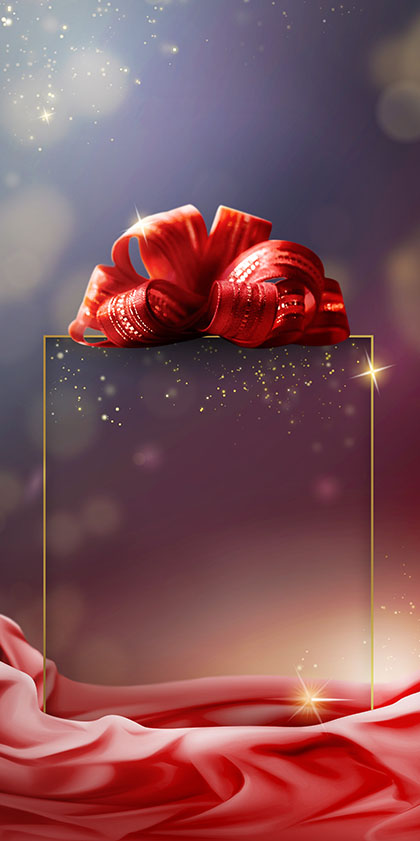
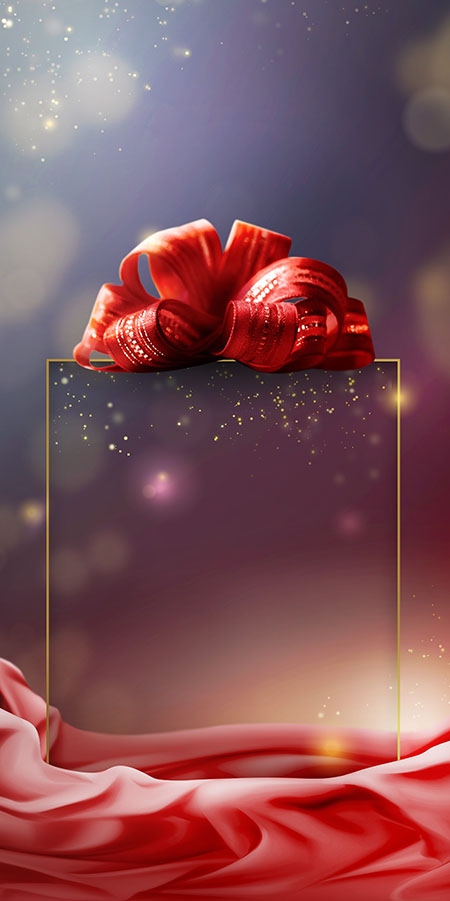
Add files via upload

diff --git a/Yen_S_8/Seg2/Seg2.html b/Yen_S_8/Seg2/Seg2.html
@@ -109,6 +109,66 @@ body {
   z-index: 4;
   animation-delay: 2s;
 }
+@keyframes confetti2{
+  0%{transform: translateY(0%);}
+  100%{transform: translateY(20%);}
+}
+.p-g-card .co{
+  width: 13%;
+  animation: confetti2 2s ease-in-out infinite alternate;
+}
+.p-g-card .co1 {
+  top: -5%;
+  left: 16%;
+}
+.p-g-card .co2 {
+  top: -1%;
+  left: 52%;
+  animation-delay: .5s;
+}
+.p-g-card .co3 {
+  top: 7%;
+  left: 73%;
+  animation-delay: 1.3s;
+}
+.p-g-card .co4 {
+  top: 9%;
+  left: 84%;
+  animation-delay: .3s;
+}
+.p-g-card .co5 {
+  top: 8%;
+  left: 13%;
+  animation-delay: 2s;
+}
+.p-g-card .co6 {
+  top: 13%;
+  left: 43%;
+  animation-delay: 1.5s;
+}
+.p-g-card .co7 {
+  top: 14%;
+  left: 49%;
+  animation-delay: .6s;
+}
+.p-g-card .co8 {
+  top: 20%;
+  right: -5%;
+  animation-delay: .4s;
+}
+.p-g-card .co9 {
+  bottom: 29%;
+  left: 50%;
+  animation-delay: .2s;
+}
+.p-g-card .co10 {
+  bottom: 15%;
+  left: 66%;
+  animation-delay: .7s;
+}
+.co-m1, .co-m2{
+  display: none;
+}
 .p-g-card .bgm{
   display: none;
 }
@@ -155,7 +215,8 @@ body {
   max-width: inherit;
 }
 .p-g-card .text-box {
-  left: 52%;
+  left: 51%;
+  bottom: 35%;
 }
 .p-g-card .ctop {
   bottom: 30.5%;
@@ -166,8 +227,33 @@ body {
 .p-g-card .c2 {
   bottom: 35%;
 }
+.p-g-card .co1 {
+  top: 0%;
+}
+.p-g-card .co6 {
+  top: 8%;
+}
+.p-g-card .co7 {
+  top: 9%;
+}
+.p-g-card .co8 {
+  top: 30%;
+}
+.p-g-card .co9 {
+  bottom: 31%;
+}
+.co-m1 {
+  display: block;
+  top: 18%;
+  right: 4%;
+}
+.co-m2 {
+  display: block;
+  bottom: 37%;
+  right: -6%;
+}
 .p-g-card .bg2{
-  display: none;
+  display: block;
 }
 .p-g-card .bg2-m{
   display: block;
@@ -181,8 +267,8 @@ body {
       <!-- Main Content -->
       <section class="p-g-card">
         <img src="img/bg1.jpg" class="bg">
-        <img src="img/bg2.png" class="pabsolute bg2">
-        <img src="img/bg2-m.png" class="pabsolute bg2-m">
+        <img src="img/bg2b.png" class="pabsolute bg2">
+        <!-- <img src="img/bg2-m.png" class="pabsolute bg2-m"> -->
         <img src="img/bg-m.jpg" class=" bgm">
         <div class="pabsolute name-box">
           <h2>Dear Jenny Lee</h2>
@@ -192,6 +278,18 @@ body {
         <img src="img/ctop.png" class="pabsolute ctop">
         <img src="img/c1.png" class="pabsolute c c1">
         <img src="img/c2.png" class="pabsolute c c2">
+        <img src="img/co1.png" class="pabsolute co co1">
+        <img src="img/co2.png" class="pabsolute co co2">
+        <img src="img/co3.png" class="pabsolute co co3">
+        <img src="img/co4.png" class="pabsolute co co4">
+        <img src="img/co5.png" class="pabsolute co co5">
+        <img src="img/co6.png" class="pabsolute co co6">
+        <img src="img/co7.png" class="pabsolute co co7">
+        <img src="img/co8.png" class="pabsolute co co8">
+        <img src="img/co9.png" class="pabsolute co co9">
+        <img src="img/co10.png" class="pabsolute co co10">
+        <img src="img/co-m1.png" class="pabsolute co co-m1">
+        <img src="img/co-m2.png" class="pabsolute co co-m2">
         <div class="pabsolute text-box">
           <p>We hope life has been great to you and best wishes for your endeavors. </p> 
           <p>Enjoy every moment of this awesome period of your life.</p>

diff --git a/Yen_S_8/Seg3/Seg3.html b/Yen_S_8/Seg3/Seg3.html
@@ -46,21 +46,54 @@ body {
   z-index: 9;
 }
 .p-g-card .hbd {
-  bottom: 28%;
+  bottom: 29%;
   width: 78%;
   height: auto;
-  left: 50%;
+  left: 49.6%;
   margin-left: -39%;
 }
-.star1 {
-  top: 60%;
+@keyframes star {
+    0% { transform: scale(0.3); -webkit-transform: scale(0.3); opacity: 1; }
+    100% { transform: scale(1);  -webkit-transform: scale(1); opacity: 1; }
+}
+.star{
+  animation: star 2s linear infinite;
+  animation-direction: reverse;
+}
+.p-g-card .star1 {
+  top: .5%;
+  left: 12.5%;
+  width: 5%;
+}
+.p-g-card .star2 {
+  top: 17%;
+  left: 32%;
+  width: 8%;
+  animation-delay: .5s;
+}
+.p-g-card .star3 {
+  top: 38.5%;
+  right: 18%;
+  width: 8%;
+  animation-delay: 1.5s;
+}
+.p-g-card .star4 {
+  top: 53.5%;
+  left: 34.5%;
+  width: 5%;
+  animation-delay: 1s;
+}
+.p-g-card .star5 {
+  top: 58%;
   left: 8.5%;
   width: 7%;
+  animation-delay: .7s;
 }
-.star2 {
-  top: 55%;
-  left: 35%;
-  width: 5%;
+.p-g-card .star6 {
+  bottom: 10%;
+  width: 8%;
+  right: 0%;
+  animation-delay: .5s;
 }
 .p-g-card .text-box {
   bottom: 19.8%;
@@ -164,9 +197,9 @@ body {
   height: 800px;
 }
 .p-g-card .hbd {
-  top: 45%;
-  width: 96%;
-  margin-left: -48%;
+  top: 46%;
+  width: 95%;
+  margin-left: -47.5%;
 }
 .p-g-card .name-box {
   left: inherit;
@@ -198,12 +231,30 @@ body {
   max-width: inherit;
 }
 .p-g-card .star1 {
-  top: 55%;
-  left: -0.5%;
+  top: 12.5%;
+  left: 6%;
+  width: 5%;
 }
 .p-g-card .star2 {
-  top: 51%;
+  top: 24.5%;
+  left: 27%;
+}
+.p-g-card .star3 {
+  top: 41.5%;
+  right: 5%;
+  width: 10%;}
+.p-g-card .star4 {
+  top: 51.5%;
   left: 32%;
+}
+.p-g-card .star5 {
+  top: 55%;
+  left: 0.5%;
+}
+.p-g-card .star6 {
+  bottom: 14%;
+  width: 10%;
+  right: 22%;
 }
 .p-g-card .bln1 {
   top: -5%;
@@ -241,8 +292,12 @@ body {
         </div>
         <img src="img/Prudential.png" class="pabsolute prudential-logo">
         <img src="img/hbd.png" class="pabsolute hbd">
-        <img src="img/star.png" class="pabsolute star1">
-        <img src="img/star.png" class="pabsolute star2">
+        <img src="img/star.png" class="pabsolute star star1">
+        <img src="img/star.png" class="pabsolute star star2">
+        <img src="img/star.png" class="pabsolute star star3">
+        <img src="img/star.png" class="pabsolute star star4">
+        <img src="img/star.png" class="pabsolute star star5">
+        <img src="img/star.png" class="pabsolute star star6">
         <img src="img/bln1.png" class="pabsolute bln bln1">
         <img src="img/bln2.png" class="pabsolute bln bln2">
         <img src="img/bln3.png" class="pabsolute bln bln3">

diff --git a/Yen_S_8/Seg1/Seg1.html b/Yen_S_8/Seg1/Seg1.html
@@ -186,7 +186,7 @@ body {
 .p-g-card .hbd {
   top: 22%;
 }
-.name-box {
+.p-g-card .name-box {
   left: inherit;
   top: 14%;
   width: 100%;
